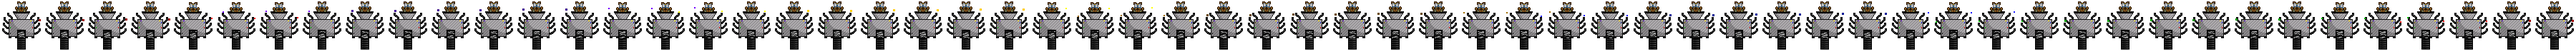
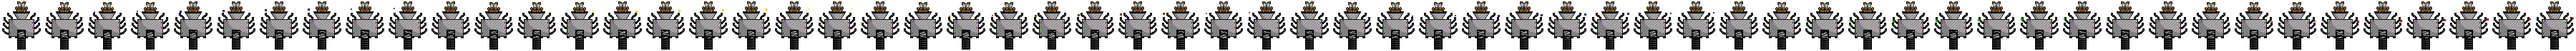
Creature-Idle-Animationen: Zwischenstand Neubau-Welle 3
Claude-Session: https://claude.ai/code/session_012viCd75CxXBFivUDTdiQFQ

diff --git a/scripts/creature-animations/unsettling_opportunist_vullary.py b/scripts/creature-animations/unsettling_opportunist_vullary.py
@@ -1,0 +1,74 @@
+# -*- coding: utf-8 -*-
+"""Idle-Animation für „Unsettling Opportunist Vullary“ (Creature).
+
+PICK: [["MotiveRussia", 215, 1]]
+Quelle: src/unsettling-opportunist-vullary.png (20×31 px, 31 Farben) = Ebene 215 („MARY“ benannt, zeigt aber den Geier der Karte), vollständig; Ebene 101 enthält dieselbe Figur und eine Variante mit
+nach rechts gedrehtem Kopf und offenem Schnabel (nicht verwendet: Köpfe drehen sich nicht seitlich). Gegen die Kartenkunst abgeglichen; Tannen und Schnee sind Szene.
+
+Was ist was (x/y im Sprite):
+* Geier, stehend, Flügel angelegt: dunkelviolette Flügel links und rechts (x 0–5 und 14–19, y 3–23) mit rosa Krallen an den Flügelenden (x 2–4 bzw. 15–17, y 20–21).
+* Kahler rosa Kopf (x 5–14, y 3–14) mit Schopffedern (y 0–3, dunkel), schwarzen Brauen, Augen (hellrosa/weiß (6, 8) und (13, 8), gelbe Iris (6, 9) und (13, 9), rot daneben (7, 9), (12, 9)),
+  orangefarbenem Hakenschnabel (x 9–10, y 11–14), darunter rosa Hals (x 9–10, y 15–17).
+* Weißlich-rosa Halskrause (x 6–13, y 15–18), dunkler olivgrauer Rumpf (x 3–16, y 15–27), dunkelrote Krallenfüße (y 26–30).
+
+Ablauf (60 Frames à 75 ms = 4,5 s, nahtlos; Frame 0 = Original):
+* Atmen: Rumpfzeile 24 wird texturiert eingefügt (0–1 px, Periode 30) – Rumpf, Flügel und Kopf heben sich gemeinsam, die Füße bleiben stehen.
+* Lauern: Der Kopf reckt sich als starre Einheit (Kopf, Schopf, Schnabel) 1 px aus der Halskrause (Frames 18–37) und sinkt zurück; nie seitlich. Der Hals wird dabei um eine Zeile sichtbar
+  (Fortsetzung der Halspixel), die Flügelkante neben dem Kopf wird fortgesetzt.
+* Krächzen bei gerecktem Kopf (Frames 24–26 und 30–32): der Schnabel öffnet sich (dunkler Spalt zwischen Ober- und Unterschnabel).
+* Blinzeln beider Augen (Frames 8–10 und 46–48): Auge → Rosa der Kopfhaut.
+* Schopffedern zucken (Frames 40–43 und 54–56): die Federspitzen (y 0–1) kippen 1 px nach rechts.
+ERGÄNZUNGEN: wo der gereckte Kopf unten eine Zelle freigibt und darunter Flügel oder Hals liegt, wird diese Zelle mit dem Pixel darunter fortgesetzt (Hals (9, 14) und (10, 14); Flügelkante an x 5 und 14).
+Keine Partikel, kein Glanz (nichts Metallisches). Nur ganze Pixel, nur Farben der Quelle.
+"""
+import numpy as np
+
+import anim_lib as L
+import anim_n2 as N2
+import anim_textur as TX
+TX.umleiten()
+
+N, MS = 60, 75
+FIG = N2.Figur('unsettling-opportunist-vullary', pad=(2, 2, 4, 2))
+spr = FIG.spr
+xx, yy = FIG.xx, FIG.yy
+OFF = FIG.off
+
+FLUEGEL = FIG.maske([(32, 22, 37), (63, 54, 66), (13, 0, 0), (50, 41, 53), (25, 15, 30), FIG.f(1, 21)])
+KOPF = FIG.op & ~FLUEGEL & (yy <= 14) & (xx >= 5) & (xx <= 14)
+REST = FIG.op & ~KOPF
+HAUT = FIG.f(8, 9)
+SPALT = FIG.f(9, 0)
+AUGEN = [(6, 8), (6, 9), (13, 8), (13, 9)]
+FEDERN = [(9, 0), (9, 1), (12, 0), (12, 1)]
+
+# Zellen, die der gereckte Kopf unten freigibt und unter denen etwas liegt → Fortsetzung
+FORT = {}
+for x in range(FIG.sw):
+    ys = np.nonzero(KOPF[:, x])[0]
+    if len(ys) and ys.max() + 1 < FIG.sh and REST[ys.max() + 1, x]:
+        FORT[(x, int(ys.max()))] = FIG.f(x, int(ys.max()) + 1)
+
+
+def frame(i, nur=None):
+    re = FIG.platz(REST)
+    ko = FIG.platz(KOPF)
+    if N2.fenster(i, N, 8, [1, 1, 1]) or N2.fenster(i, N, 46, [1, 1, 1]):
+        N2.setze(ko, OFF, {p: HAUT for p in AUGEN})
+    if N2.fenster(i, N, 40, [1, 1, 1, 1]) or N2.fenster(i, N, 54, [1, 1, 1]):
+        farbe = FIG.f(9, 0)
+        N2.loesche(ko, OFF, FEDERN)
+        N2.setze(ko, OFF, {(x + 1, y): farbe for x, y in FEDERN}, neu=True)
+    if N2.fenster(i, N, 24, [1, 1, 1]) or N2.fenster(i, N, 30, [1, 1, 1]):
+        N2.setze(ko, OFF, {(9, 13): SPALT, (10, 13): SPALT})
+    hoch = 1 if 18 <= i <= 37 else 0
+    if hoch:
+        N2.setze(re, OFF, FORT, neu=True)
+        ko = L.versetze(ko, 0, -1)
+    fig = L.zusammen(FIG.H, FIG.W, [(re, 0, 0), (ko, 0, 0)])
+    return TX.streck_zeile(fig, FIG.pt + 24, N2.hub(i, 30, 1))
+
+
+if __name__ == '__main__':
+    print('Fortsetzungen:', FORT)
+    N2.haupt(__import__(__name__), 'Unsettling Opportunist Vullary')

diff --git a/scripts/creature-animations/gerrymander.py b/scripts/creature-animations/gerrymander.py
@@ -1,0 +1,67 @@
+# -*- coding: utf-8 -*-
+"""Idle-Animation für „Gerrymander“ (Creature) — der grüne Salamander, der (von oben gesehen) mit gespreizten Beinen an der Holzwand klebt und züngelt.
+
+Quelle: src/gerrymander.png (32×21 px, 6 Farben).
+PICK: [["MotiveGrailWar", 277, 1]]     (Ebene „Gerrymander“, Figur 1; 100 % Treffer, nur in dieser Karte; vollständig. Ebene 284 „Ebene #239“ ist die Holzwand = Kulisse.)
+
+Aufruf:   python3 gerrymander.py [--preview <ordner>]
+Ausgabe:  ../../data/creature-animations/gerrymander.png + .json
+
+Was im Sprite ist (x, y im 32×21-Sprite; der Kopf zeigt nach RECHTS):
+* SCHWANZ (x 0–11, y 9–14): läuft nach links dünn aus, Spitze bei (0–3, 12).
+* RUMPF (x 12–22, y 8–12): grün (110,141,107)/(87,112,83) mit hellen Rückenflecken (177,200,174) in zwei Reihen (y 9 und y 11).
+* VIER BEINE: vorn (x 19–27) nach oben (y 0–8) und unten (y 12–20), hinten (x 10–17) ebenso; je zwei Zehen an den Enden. Sie kleben an der Wand → bleiben völlig fest.
+* KOPF (x 23–27, y 8–12) mit zwei gelben AUGEN (251,213,44) bei (26,9) und (26,11).
+* ZUNGE (199,93,80): (28–29,10), (30,11), (31,12–13) – hängt aus dem Maul und biegt nach unten.
+Kein Metall → kein Glanz. Keine Partikel.
+
+Idee: Der Salamander klebt reglos an der Wand – nur die ZUNGE schnellt immer wieder heraus (züngeln) und der SCHWANZ schlängelt träge.
+Ablauf (60 Frames à 70 ms = 4,2 s, nahtlos):
+* Züngeln (zweimal je Schleife, ab Frame 8 und ab Frame 38): Zunge zieht sich ein (nur noch (28,10)) → weg → schnellt gerade heraus (28–31,10) → biegt nach oben ((30,9), (31,8), (31,7)) → gerade → zurück
+  in die Ruheform (Original, nach unten gebogen). Die Zunge wird in jeder Pose als Ganzes neu gesetzt (nur Zungenfarbe), nie gedehnt.
+* Schwanz (x ≤ 11): schlängelt als laufende Welle senkrecht (L.spalten_welle, Gelenk am Rumpf x 12, Ausschlag ±2 px an der Spitze, Periode 30, Gefälle ≤ 1 px je Spalte) – der Ansatz am Rumpf bleibt stehen.
+* Blinzeln (Frames 24–26 und 54–56): beide Augen nehmen das Kopfgrün (110,141,107) an.
+Frame 0 = Original. Ergänzungen: keine.
+"""
+import math
+import sys
+
+import numpy as np
+
+import anim_humanoide as Hm
+import anim_lib as L
+import anim_n4 as N4
+
+N, MS = 60, 70
+G = N4.Figur('gerrymander', 2, 2, 2, 2)
+spr, H, W, OFF = G.spr, G.H, G.W, G.OFF
+f = G.f
+GRUEN, ZUNGE_F, SCHWARZ = f(25, 10), f(28, 10), (0, 0, 0)
+zunge = L.farbmaske(spr, [ZUNGE_F])
+schwanz = G.da & (G.xx <= 11)
+rumpf = G.da & ~zunge & ~schwanz
+ZUNGE = {
+    'ruhe': [(28, 10), (29, 10), (30, 11), (31, 12), (31, 13)],
+    'kurz': [(28, 10)],
+    'weg': [],
+    'gerade': [(28, 10), (29, 10), (30, 10), (31, 10)],
+    'hoch': [(28, 10), (29, 10), (30, 9), (31, 8), (31, 7)],
+}
+FLICK = ['kurz', 'weg', 'weg', 'gerade', 'gerade', 'hoch', 'hoch', 'gerade', 'kurz', 'gerade', 'hoch', 'hoch', 'gerade']
+
+
+def frame(i):
+    k = G.ebene(rumpf)
+    if Hm.folge(i, 24, [1] * 3, N) or Hm.folge(i, 54, [1] * 3, N):
+        Hm.setze(k, {(26, 9): GRUEN, (26, 11): GRUEN}, OFF)
+    z = Hm.folge(i, 8, FLICK, N) or Hm.folge(i, 38, FLICK, N) or 'ruhe'
+    Hm.setze(k, {p: ZUNGE_F for p in ZUNGE[z]}, OFF)
+    s = G.ebene(schwanz)
+    env = math.sin(math.pi * i / N) ** 2                           # Frame 0 = Ruhe
+    s = L.spalten_welle(s, G.PL + 12, 2.2 * min(1.0, 3 * env), L.sinus(i, N / 2), potenz=1.3, lauf=1.6)
+    fig = L.zusammen(H, W, [(s, 0, 0), (k, 0, 0)])
+    return G.schliessen(fig, lambda x, y: SCHWARZ)
+
+
+if __name__ == '__main__':
+    N4.abschluss(G, 'Gerrymander', [frame(i) for i in range(N)], MS, sys.argv, scale=5)
